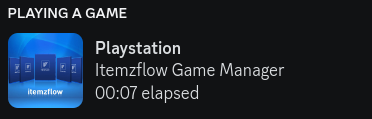
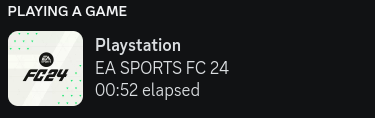
README

Changed region(s): [[0.0, 0.2542, 0.7688, 0.9153], [0.0, 0.0508, 0.3548, 0.1525]]

diff --git a/README.md b/README.md
@@ -1,6 +1,7 @@
 # PS5 Discord Rich Presence client
 
-![Rich Presenc example game](assets/discord_example_game.png)
+![Rich Presenc example game](assets/discord_example_idle_game.png)
+![Rich Presenc example homebrew](assets/discord_example_hb.png)
 ![Rich Presenc example idle](assets/discord_example_idle.png)
 
 ## What is this?
